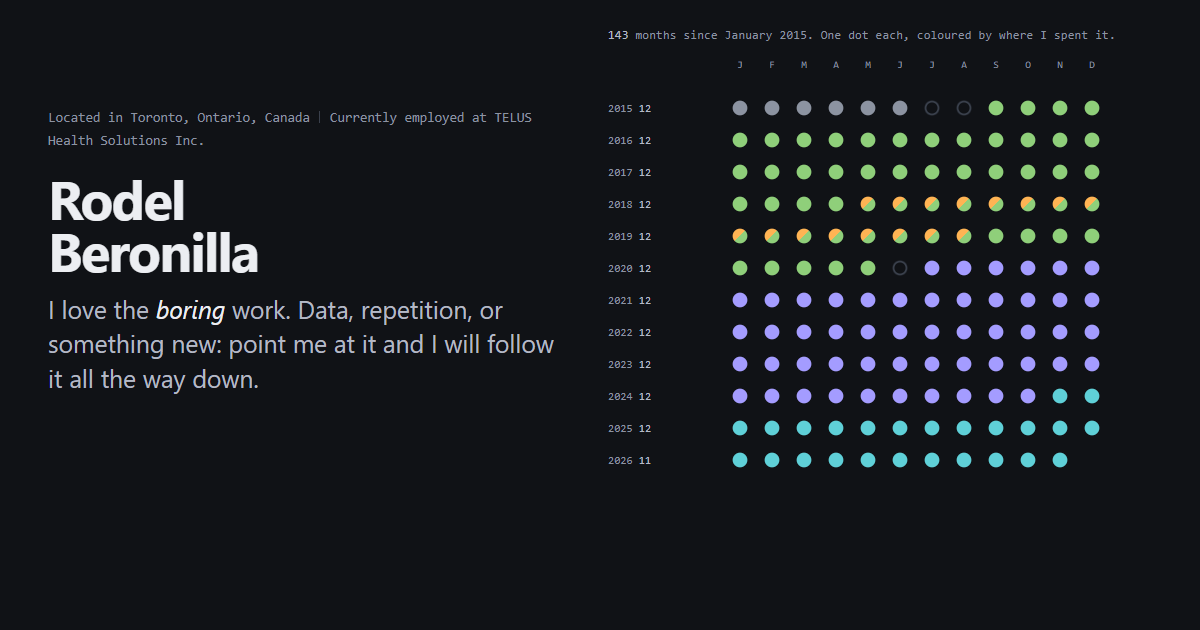
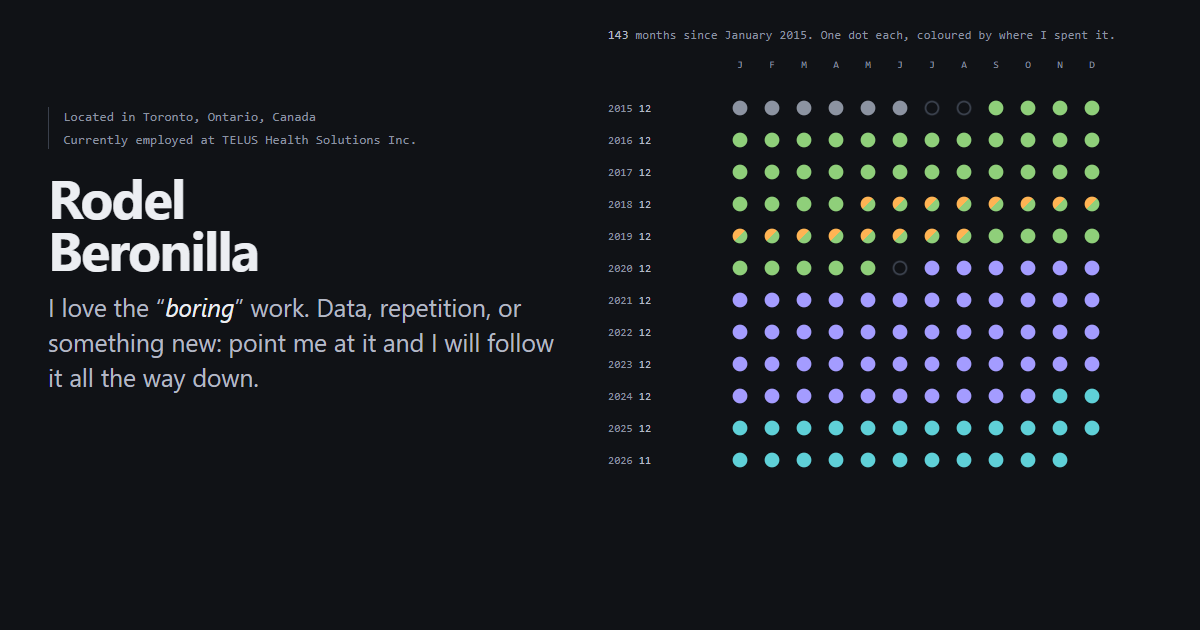
Stack the hero meta on two whole lines and quote "boring"
The location and employer clauses were long enough to wrap mid-phrase at every
viewport the layout allows, so they are now two complete lines tied together
by a rule rather than one wrapped sentence.

Claude-Session: https://claude.ai/code/session_01HpsUhfHfpNmKf5GR6ja9Rb

diff --git a/site/index.html b/site/index.html
@@ -4,14 +4,14 @@
   <meta charset="utf-8">
   <meta name="viewport" content="width=device-width, initial-scale=1, viewport-fit=cover">
   <title>Rodel Beronilla</title>
-  <meta name="description" content="Rodel Beronilla. I love the boring work: data, repetition, or something new. Security, risk and compliance for healthcare at TELUS Health Solutions in Toronto, Ontario.">
+  <meta name="description" content="Rodel Beronilla. I love the “boring” work: data, repetition, or something new. Security, risk and compliance for healthcare at TELUS Health Solutions in Toronto, Ontario.">
   <link rel="canonical" href="https://beronilla.rodeo/">
   <link rel="icon" href="favicon.svg" type="image/svg+xml">
   <meta name="theme-color" content="#101216" media="(prefers-color-scheme: dark)">
   <meta name="theme-color" content="#f7f7f4" media="(prefers-color-scheme: light)">
   <meta property="og:type" content="profile">
   <meta property="og:title" content="Rodel Beronilla">
-  <meta property="og:description" content="I love the boring work. Data, repetition, or something new: point me at it and I will follow it all the way down.">
+  <meta property="og:description" content="I love the “boring” work. Data, repetition, or something new: point me at it and I will follow it all the way down.">
   <meta property="og:url" content="https://beronilla.rodeo/">
   <meta property="og:image" content="https://beronilla.rodeo/og.png">
   <meta property="og:image:width" content="1200">
@@ -57,9 +57,9 @@
     <section class="page hero" id="top">
       <div class="page-in hero-grid">
         <div class="hero-inner">
-          <p class="meta"><span class="meta-full">Located in Toronto, Ontario, Canada<i aria-hidden="true"></i>Currently employed at TELUS Health Solutions Inc.</span><span class="meta-short" aria-hidden="true">Toronto, Canada<i></i>TELUS Health Solutions</span></p>
+          <p class="meta"><span>Located in Toronto, Ontario, Canada</span><span class="meta-full">Currently employed at TELUS Health Solutions Inc.</span><span class="meta-short" aria-hidden="true">TELUS Health Solutions Inc.</span></p>
           <h1 class="name"><span>Rodel</span><span>Beronilla</span></h1>
-          <p class="tag">I love the <em>boring</em> work. Data, repetition, or something new: point me at it and I will follow it all the way down.</p>
+          <p class="tag">I love the &ldquo;<em>boring</em>&rdquo; work. Data, repetition, or something new: point me at it and I will follow it all the way down.</p>
           <div class="cta">
             <a class="btn primary" href="#how">How I work</a>
             <a class="btn" href="mailto:rodel.beronilla@gmail.com">Email me</a>

diff --git a/site/style.css b/site/style.css
@@ -70,8 +70,8 @@ html[data-theme="dark"] .i-moon, html[data-theme="light"] .i-sun { display: none
 
 /* hero */
 .hero-grid { display: grid; grid-template-columns: minmax(0, 1fr) minmax(0, 34rem); gap: clamp(2rem, 4vh, 3.5rem) clamp(2rem, 5vw, 5rem); align-items: center; }
-.meta { font: .85rem/1.7 var(--mono); color: var(--muted); margin-bottom: 1.25rem; }
-.meta i { display: inline-block; width: 1px; height: .85em; margin: 0 .7em; vertical-align: -.05em; background: var(--line-2); }
+.meta { display: grid; justify-items: start; gap: .2rem; font: .82rem/1.45 var(--mono); color: var(--muted); margin-bottom: 1.4rem; border-left: 1px solid var(--line-2); padding-left: .9rem; }
+.meta span { text-wrap: nowrap; }
 .meta-short { display: none; }
 .name { font-size: clamp(2.8rem, 7vw, 6.5rem); line-height: .95; font-weight: 650; letter-spacing: -.035em; }
 .name span { display: block; }
@@ -196,7 +196,7 @@ html[data-theme="dark"] .i-moon, html[data-theme="light"] .i-sun { display: none
   .page:last-of-type { padding-bottom: 4rem; }
   .sec { grid-template-columns: minmax(0, 1fr); row-gap: 1.25rem; }
   .meta-full { display: none; }
-  .meta-short { display: inline; }
+  .meta-short { display: block; }
   .tl > li { grid-template-columns: minmax(0, 1fr); gap: .15rem; }
   .dock { display: flex; position: fixed; left: 0; right: 0; bottom: 0; z-index: 20; background: var(--bg); border-top: 1px solid var(--line-2); padding: 0 .5rem env(safe-area-inset-bottom, 0); }
   .dock.is-hidden { display: none; }
